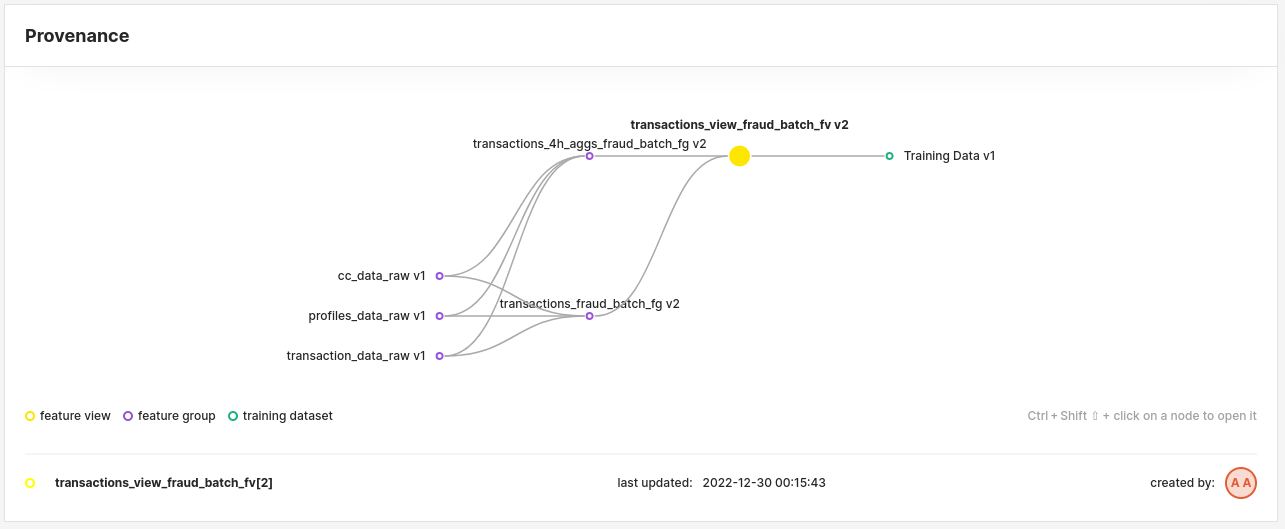
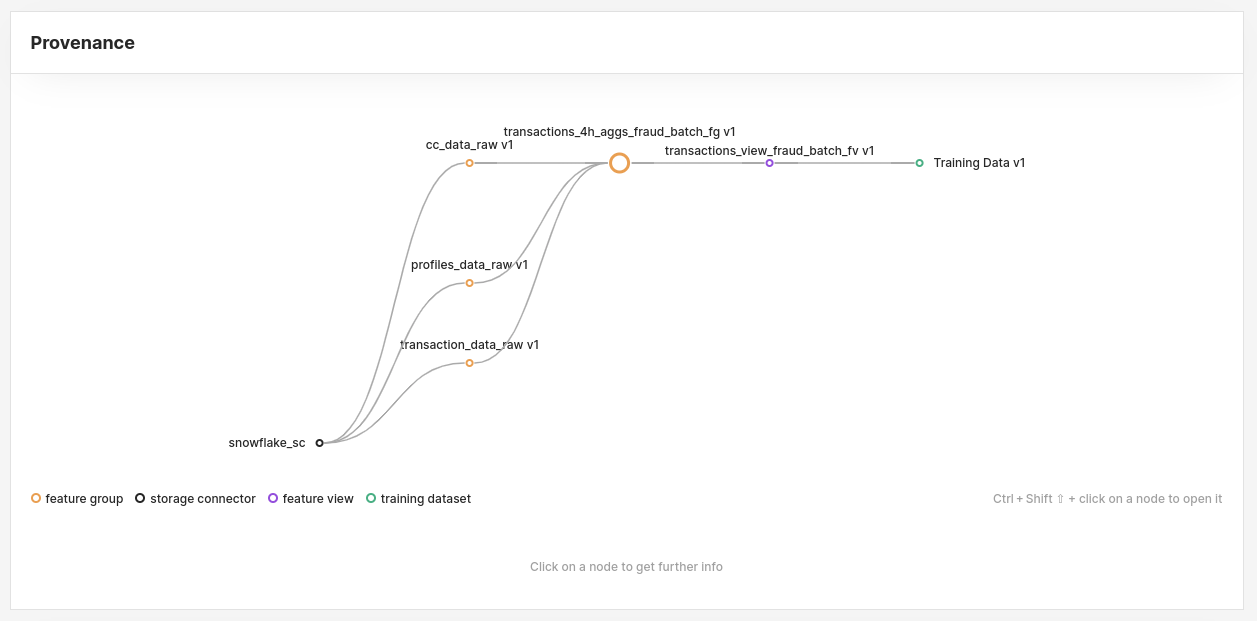
[HWORKS-1104] Explicit storage connector provenance (#382)

diff --git a/docs/user_guides/fs/provenance/provenance.md b/docs/user_guides/fs/provenance/provenance.md
@@ -2,11 +2,80 @@
 
 ## Introduction 
 
-Hopsworks feature store allows users to track provenance (lineage) between feature groups, feature views and training dataset. Tracking lineage allows users to determine where/if a feature group is being used. You can track if feature groups are being used to create additional (derived) feature groups or feature views. 
+Hopsworks feature store allows users to track provenance (lineage) between storage connectors, feature groups, feature views, training datasets and models. Tracking lineage allows users to determine where/if a feature group is being used. You can track if feature groups are being used to create additional (derived) feature groups or feature views.
 
 You can interact with the provenance graph using the UI and the APIs.
 
-## Step 1: Feature group lineage
+## Step 1: Storage connector lineage
+
+The relationship between storage connectors and feature groups is captured automatically when you create an external feature group. You can inspect the relationship between storage connectors and feature groups using the APIs.
+
+=== "Python"
+
+    ```python
+    # Retrieve the storage connector
+    snowflake_sc = fs.get_storage_connector("snowflake_sc")
+
+    # Create the user profiles feature group
+    user_profiles_fg = fs.create_external_feature_group(
+        name="user_profiles",
+        version=1,
+        storage_connector=snowflake_sc,
+        query="SELECT * FROM USER_PROFILES"
+    )
+    user_profiles_fg.save()
+    ```
+
+### Using the APIs
+
+Starting from a feature group metadata object, you can traverse upstream the provenance graph to retrieve the metadata objects of the storage connectors that are part of the feature group. To do so, you can use the [get_storage_connector_provenance](https://docs.hopsworks.ai/feature-store-api/{{{ hopsworks_version }}}/generated/api/feature_group_api/#get_storage_connector_provenance) method.
+
+=== "Python"
+
+    ```python
+    # Returns all storage connectors linked to the provided feature group
+    lineage = user_profiles_fg.get_storage_connector_provenance()
+
+    # List all accessible parent storage connectors
+    lineage.accessible
+
+    # List all deleted parent storage connectors
+    lineage.deleted
+
+    # List all the inaccessible parent storage connectors
+    lineage.inaccessible
+    ```
+
+=== "Python"
+
+    ```python
+    # Returns an accessible storage connector linked to the feature group (if it exists)
+    user_profiles_fg.get_storage_connector()
+    ```
+
+To traverse the provenance graph in the opposite direction (i.e. from the storage connector to the feature group), you can use the [get_feature_groups_provenance](https://docs.hopsworks.ai/feature-store-api/{{{ hopsworks_version }}}/generated/api/storage_connector_api/#get_feature_groups_provenance) method. When navigating the provenance graph downstream, the `deleted` feature groups are not tracked by provenance, as such, the `deleted` property will always return an empty list.
+
+=== "Python"
+
+    ```python
+    # Returns all feature groups linked to the provided storage connector
+    lineage = snowflake_sc.get_feature_groups_provenance()
+
+    # List all accessible downstream feature groups
+    lineage.accessible
+
+    # List all the inaccessible downstream feature groups
+    lineage.inaccessible
+    ```
+
+=== "Python"
+
+    ```python
+    # Returns all accessible feature groups linked to the storage connector (if any exists)
+    snowflake_sc.get_feature_groups()
+    ```
+
+## Step 2: Feature group lineage
 
 ### Assign parents to a feature group
 
@@ -96,7 +165,7 @@ To traverse the provenance graph in the opposite direction (i.e. from the parent
     lineage.inaccessible
     ```
 
-You can also visualize the relationship between the parent and child feature groups in the UI. In each feature group overview page you can find a provenance section with the graph of parent feature groups and child feature groups/feature views.
+You can also visualize the relationship between the parent and child feature groups in the UI. In each feature group overview page you can find a provenance section with the graph of parent storage connectors/feature groups and child feature groups/feature views.
 
 <p align="center">
   <figure>
@@ -105,7 +174,7 @@ You can also visualize the relationship between the parent and child feature gro
   </figure>
 </p>
 
-## Step 2: Feature view lineage
+## Step 3: Feature view lineage
 
 The relationship between feature groups and feature views is captured automatically when you create a feature view. You can inspect the relationship between feature groups and feature views using the APIs or the UI.
 
